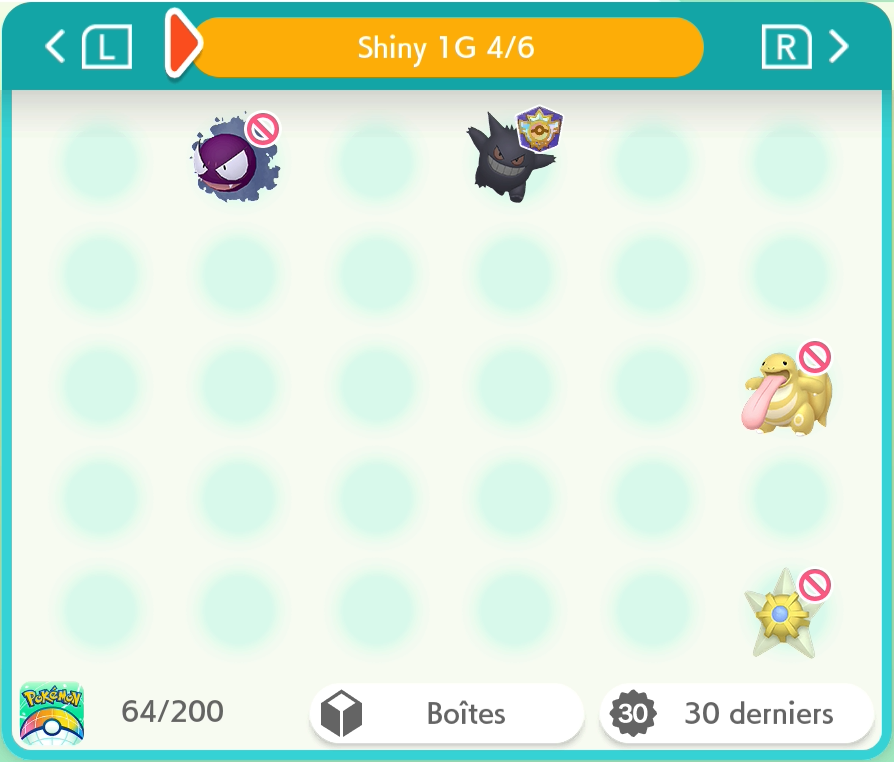
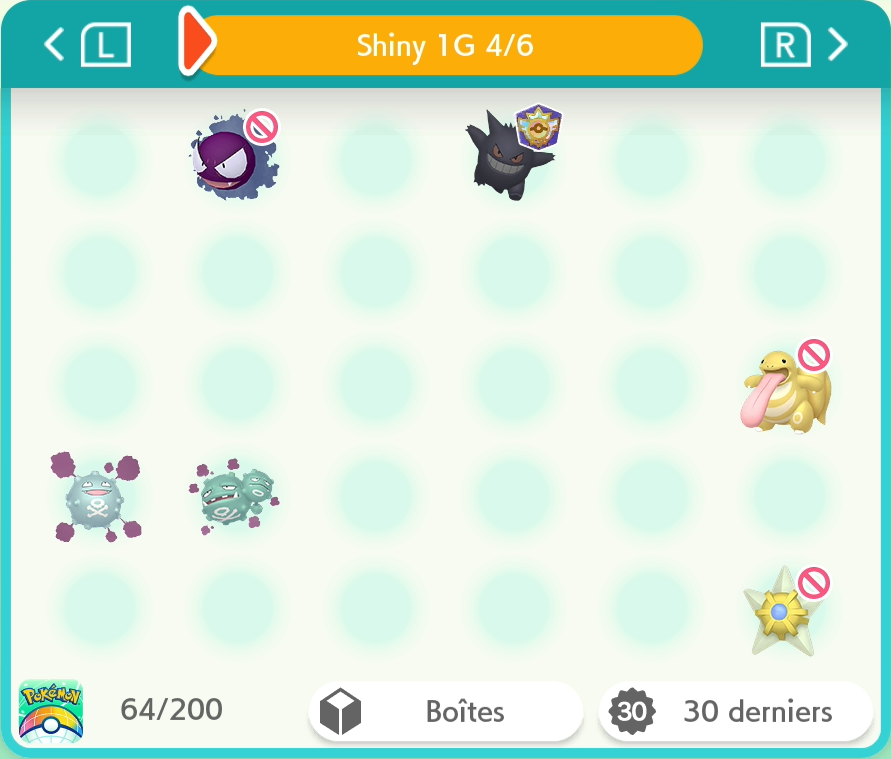
1G : Smogo & Smogogo | Forme de Galar : Smogogo

diff --git a/README.md b/README.md
@@ -2,12 +2,12 @@
 
 Pokémon-Elément-Sh -> <a href="https://www.pokemon-element-sh.fr/profil/karyno21" target="_blank">Karyno21</a>
 
-↓ Dernière Update le 30/05/2026 à 8h05 ↓
-### Dex National [257/999] +21
+↓ Dernière Update le 30/05/2026 à 9h19 ↓
+### Dex National [259/999] +23
 
 | Gen | Prog | Notes |
 |:--:|:--:|---|
-|1G|42/151|+2 Mackogneur & Galopa|
+|1G|42/151|+4 Mackogneur, Galopa, Smogo & Smogogo|
 |2G|32/100|+2 Pharamp & Cotovol|
 |3G|21/135|+2 Mysdibule & Polichombr|
 |4G|20/107||
@@ -17,12 +17,12 @@ Pokémon-Elément-Sh -> <a href="https://www.pokemon-element-sh.fr/profil/karyno
 |8G|31/90|+9 Distrib Zacian & Éthernatos, Fantyrm, Dispareptil, Lanssorien, M.Glaquette, Berserkatt, Tutétékri & Palarticho|
 |9G|45/108|+3 Terraiste, Cryodo & Glaivodo|
 
-### Formes Régionales [50/58] +31
+### Formes Régionales [51/58] +32
 
 | Forme | Prog | Notes |
 |:--:|:--:|---|
 |Alola|18/18|+17 Complété (Familles de Rattata / Goupix / Racaillou / Sabelette / Tadmorv / Taupiqueur & Miaouss, Raichu & Noadkoko)|
-|Galar|11/19|+11 Famille de Ramoloss, Distrib des oiseaux légendaire de Galar, M.Mime, Miaouss, Tutafeh, Canarticho & Limonde|
+|Galar|12/19|+12 Famille de Ramoloss, Distrib des oiseaux légendaire de Galar, M.Mime, Miaouss, Tutafeh, Canarticho, Limonde & Smogogo|
 |Hisui|17/17|Complété|
 |Paldea|4/4|+3 Complété Axoloto, Tauros Aquatique & Flamboyant|
 
